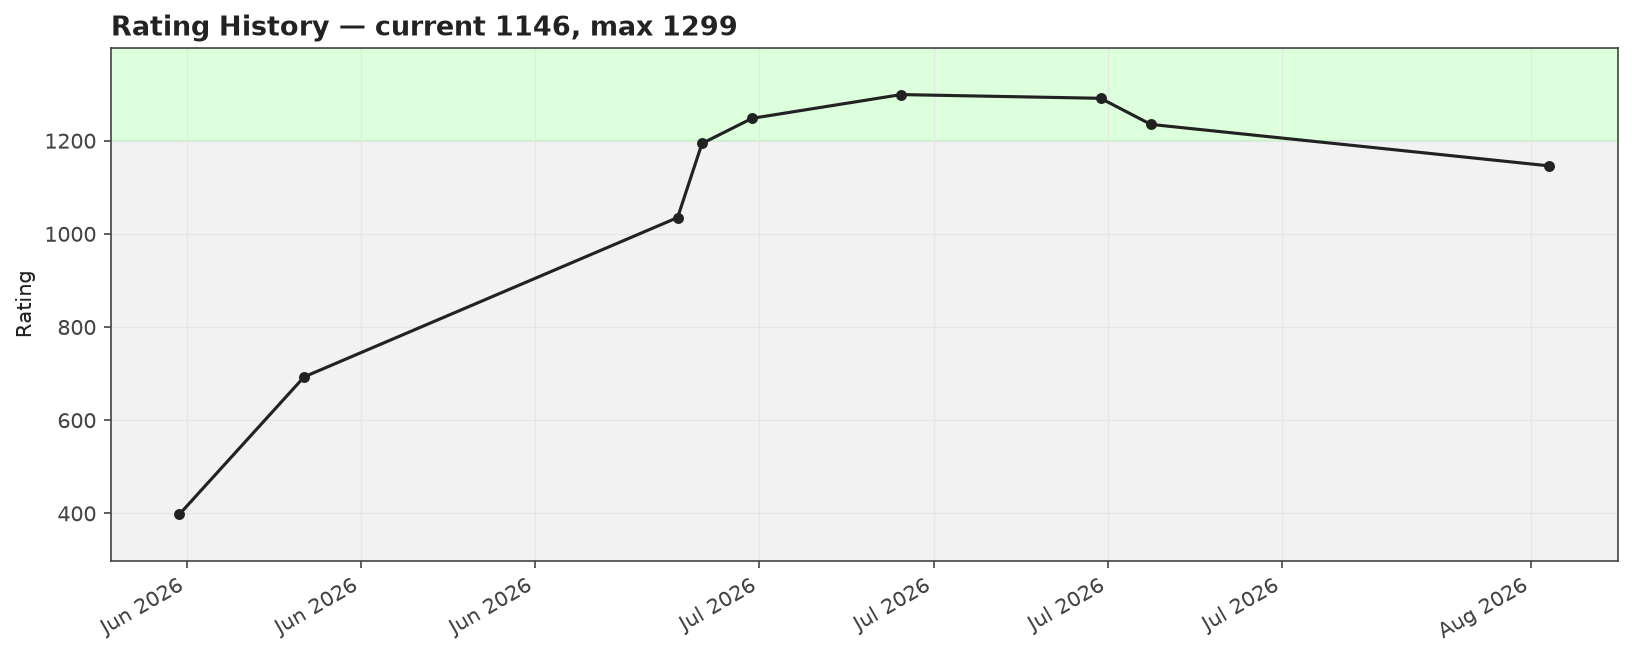
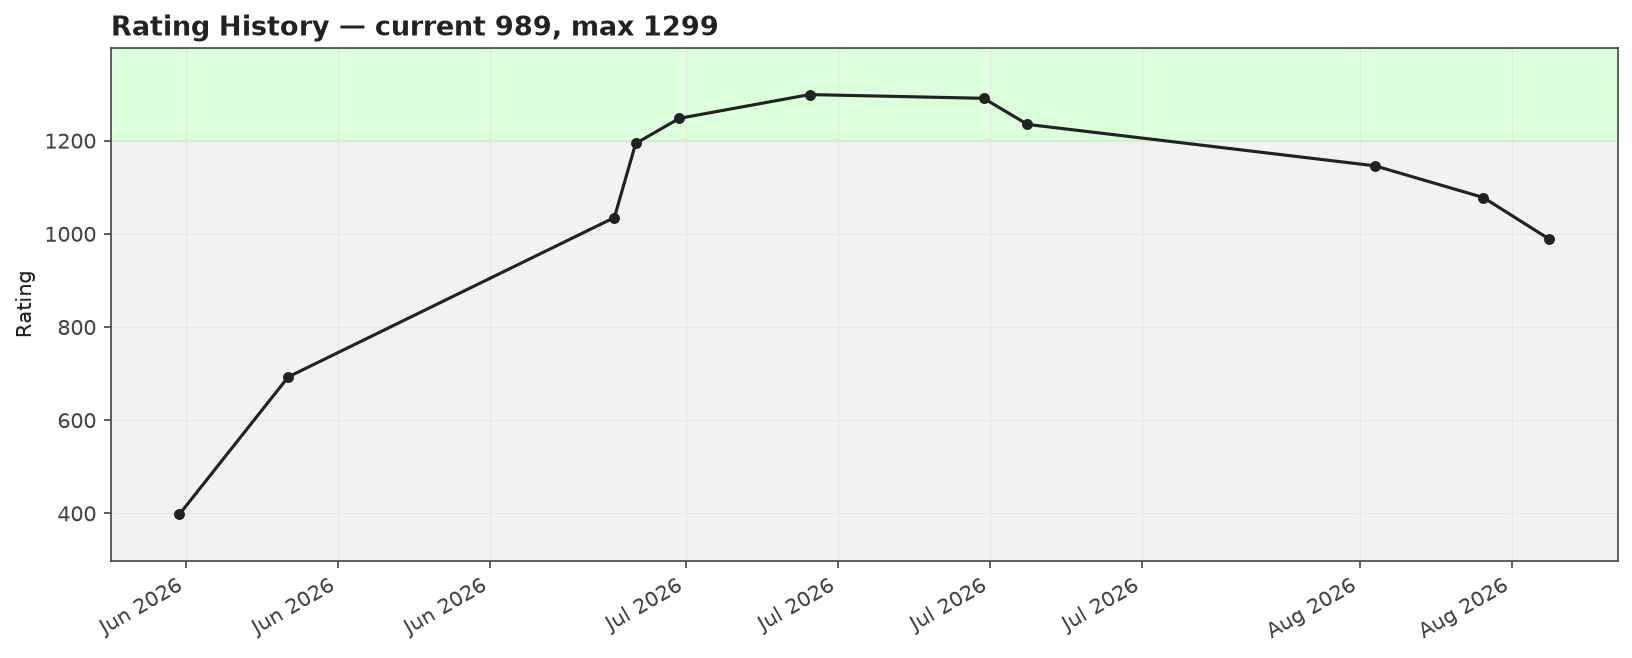
Sync: refresh analytics (rating/streak update, no new problems)

diff --git a/README.md b/README.md
@@ -5,7 +5,7 @@ Auto-generated archive of accepted Codeforces submissions for **[om_sharma_](htt
 - **Total solved:** 149
 - **With source attached:** 0 / 149
 - **Longest streak:** 15 days  |  **Current streak:** 0 days
-- **Contest rating:** 1146 (max 1299)
+- **Contest rating:** 989 (max 1299)
 
 ## 📊 Analytics
 
